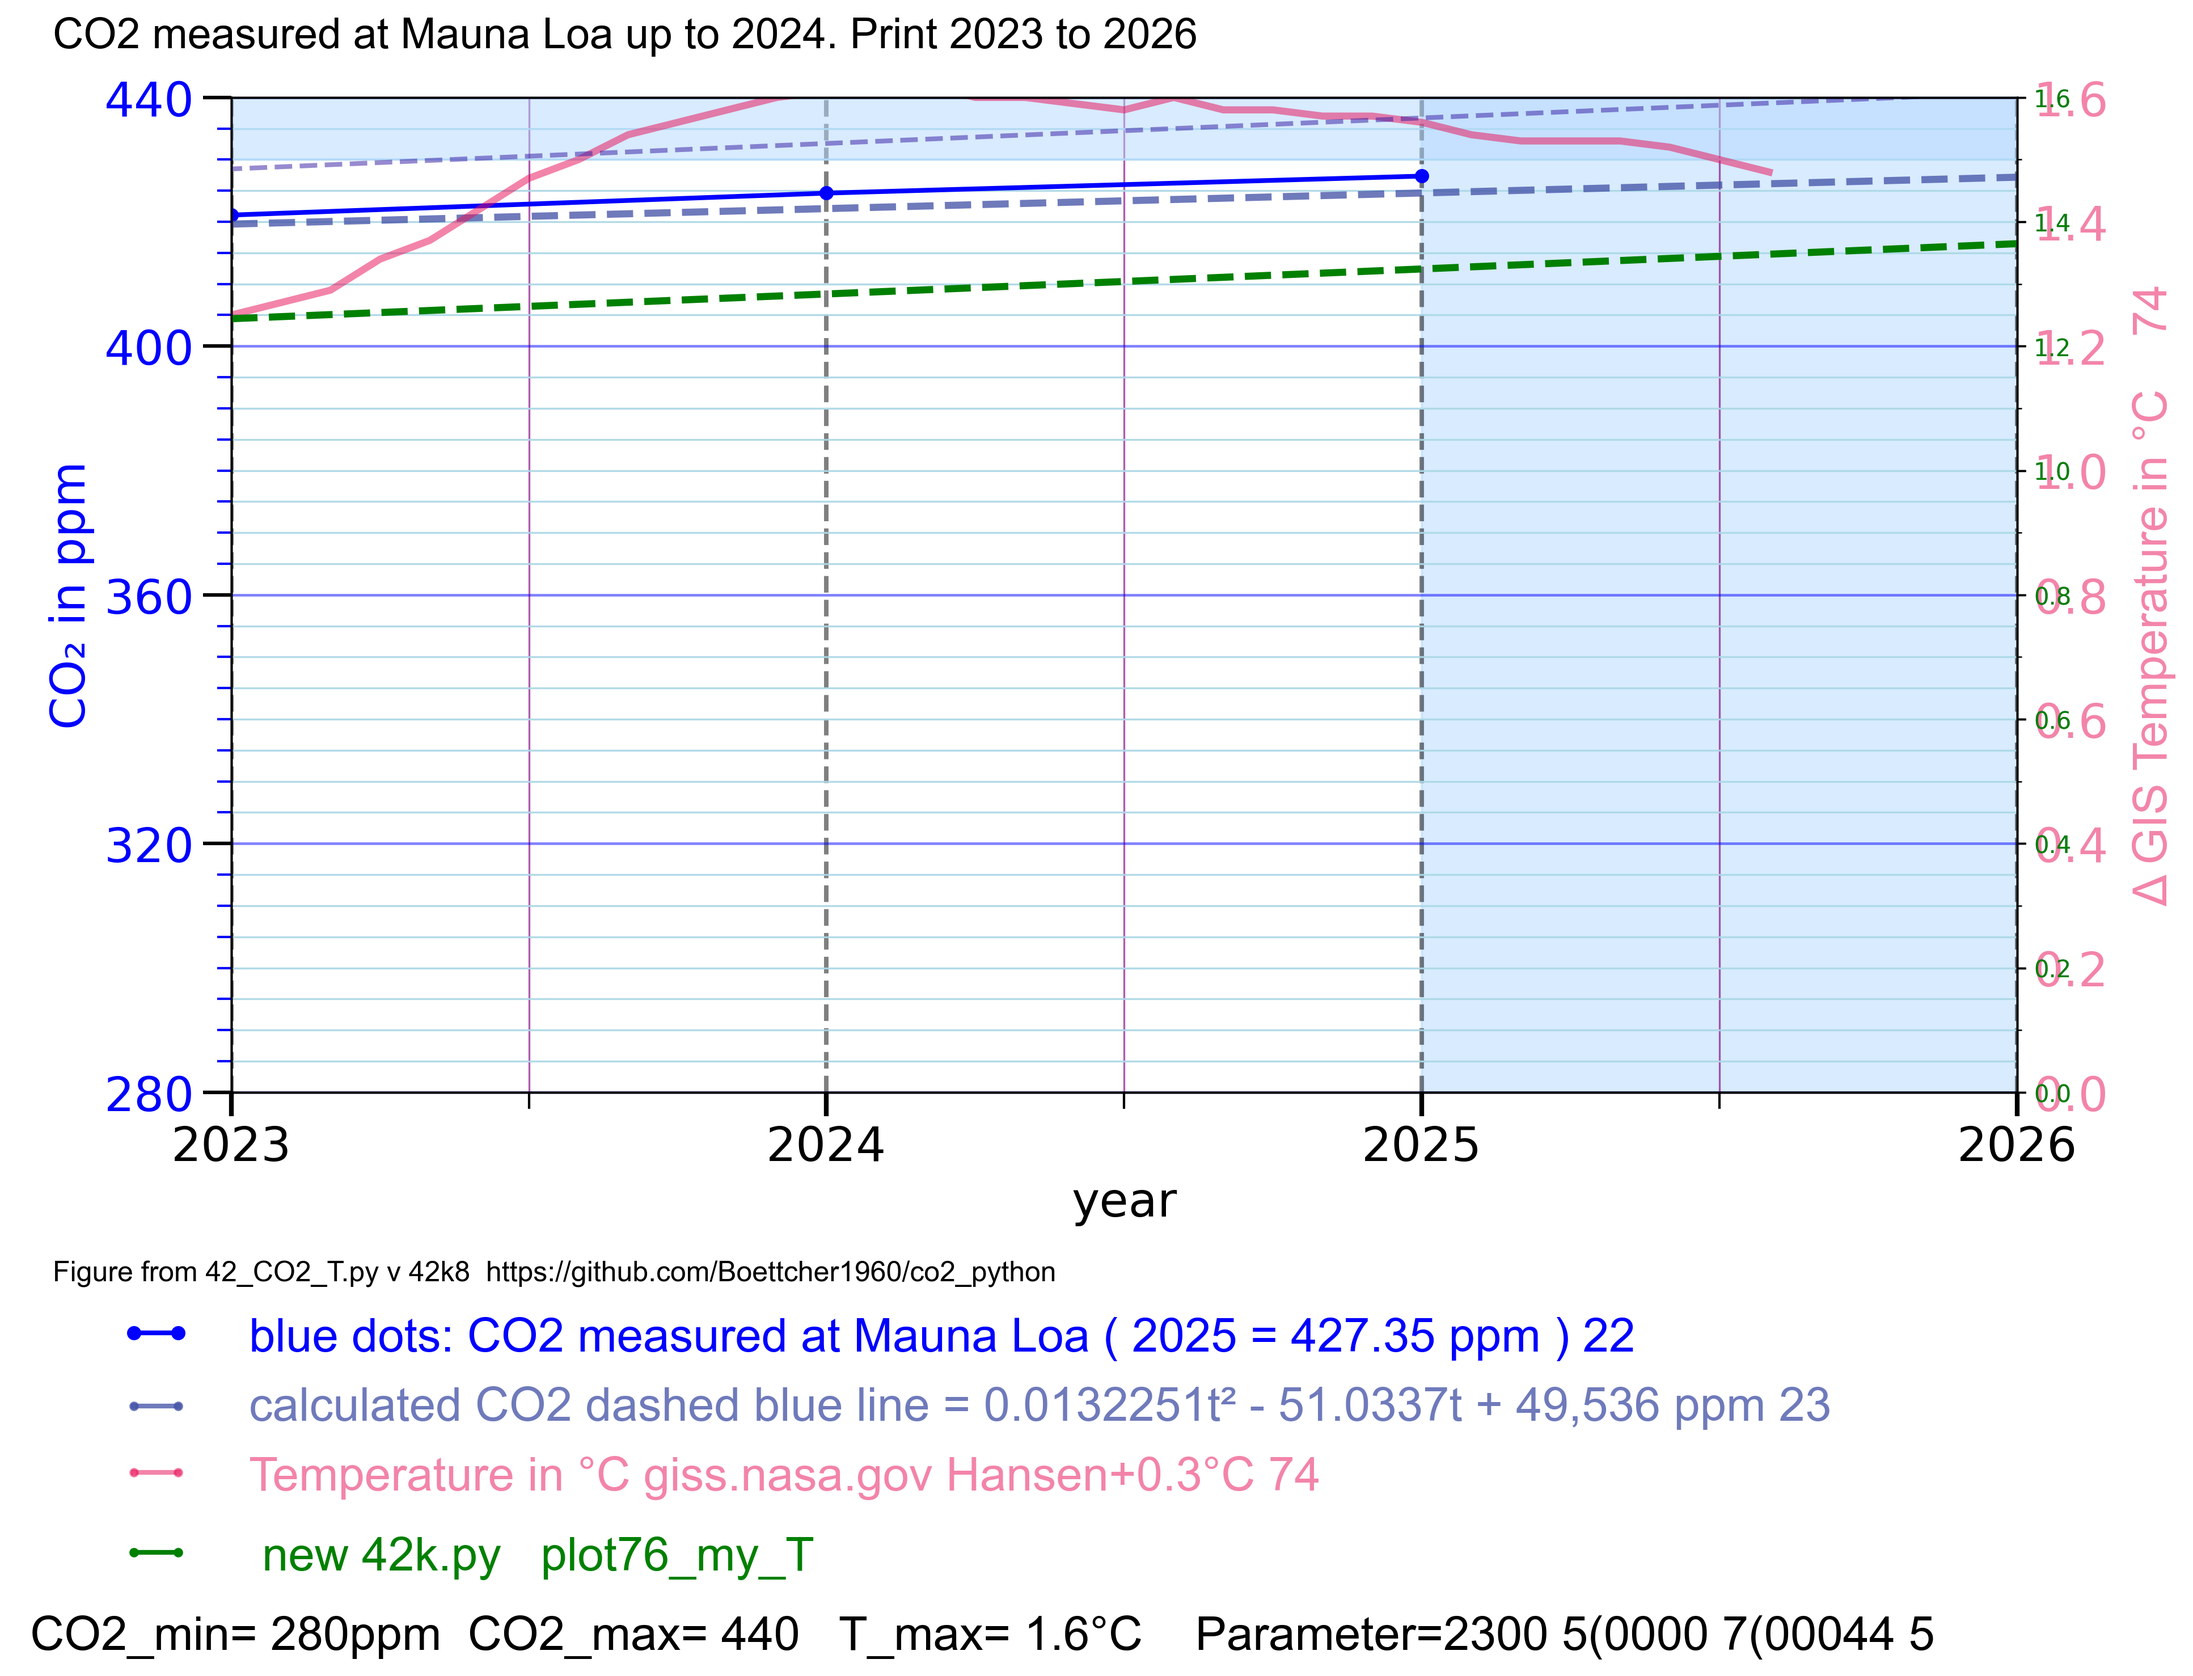
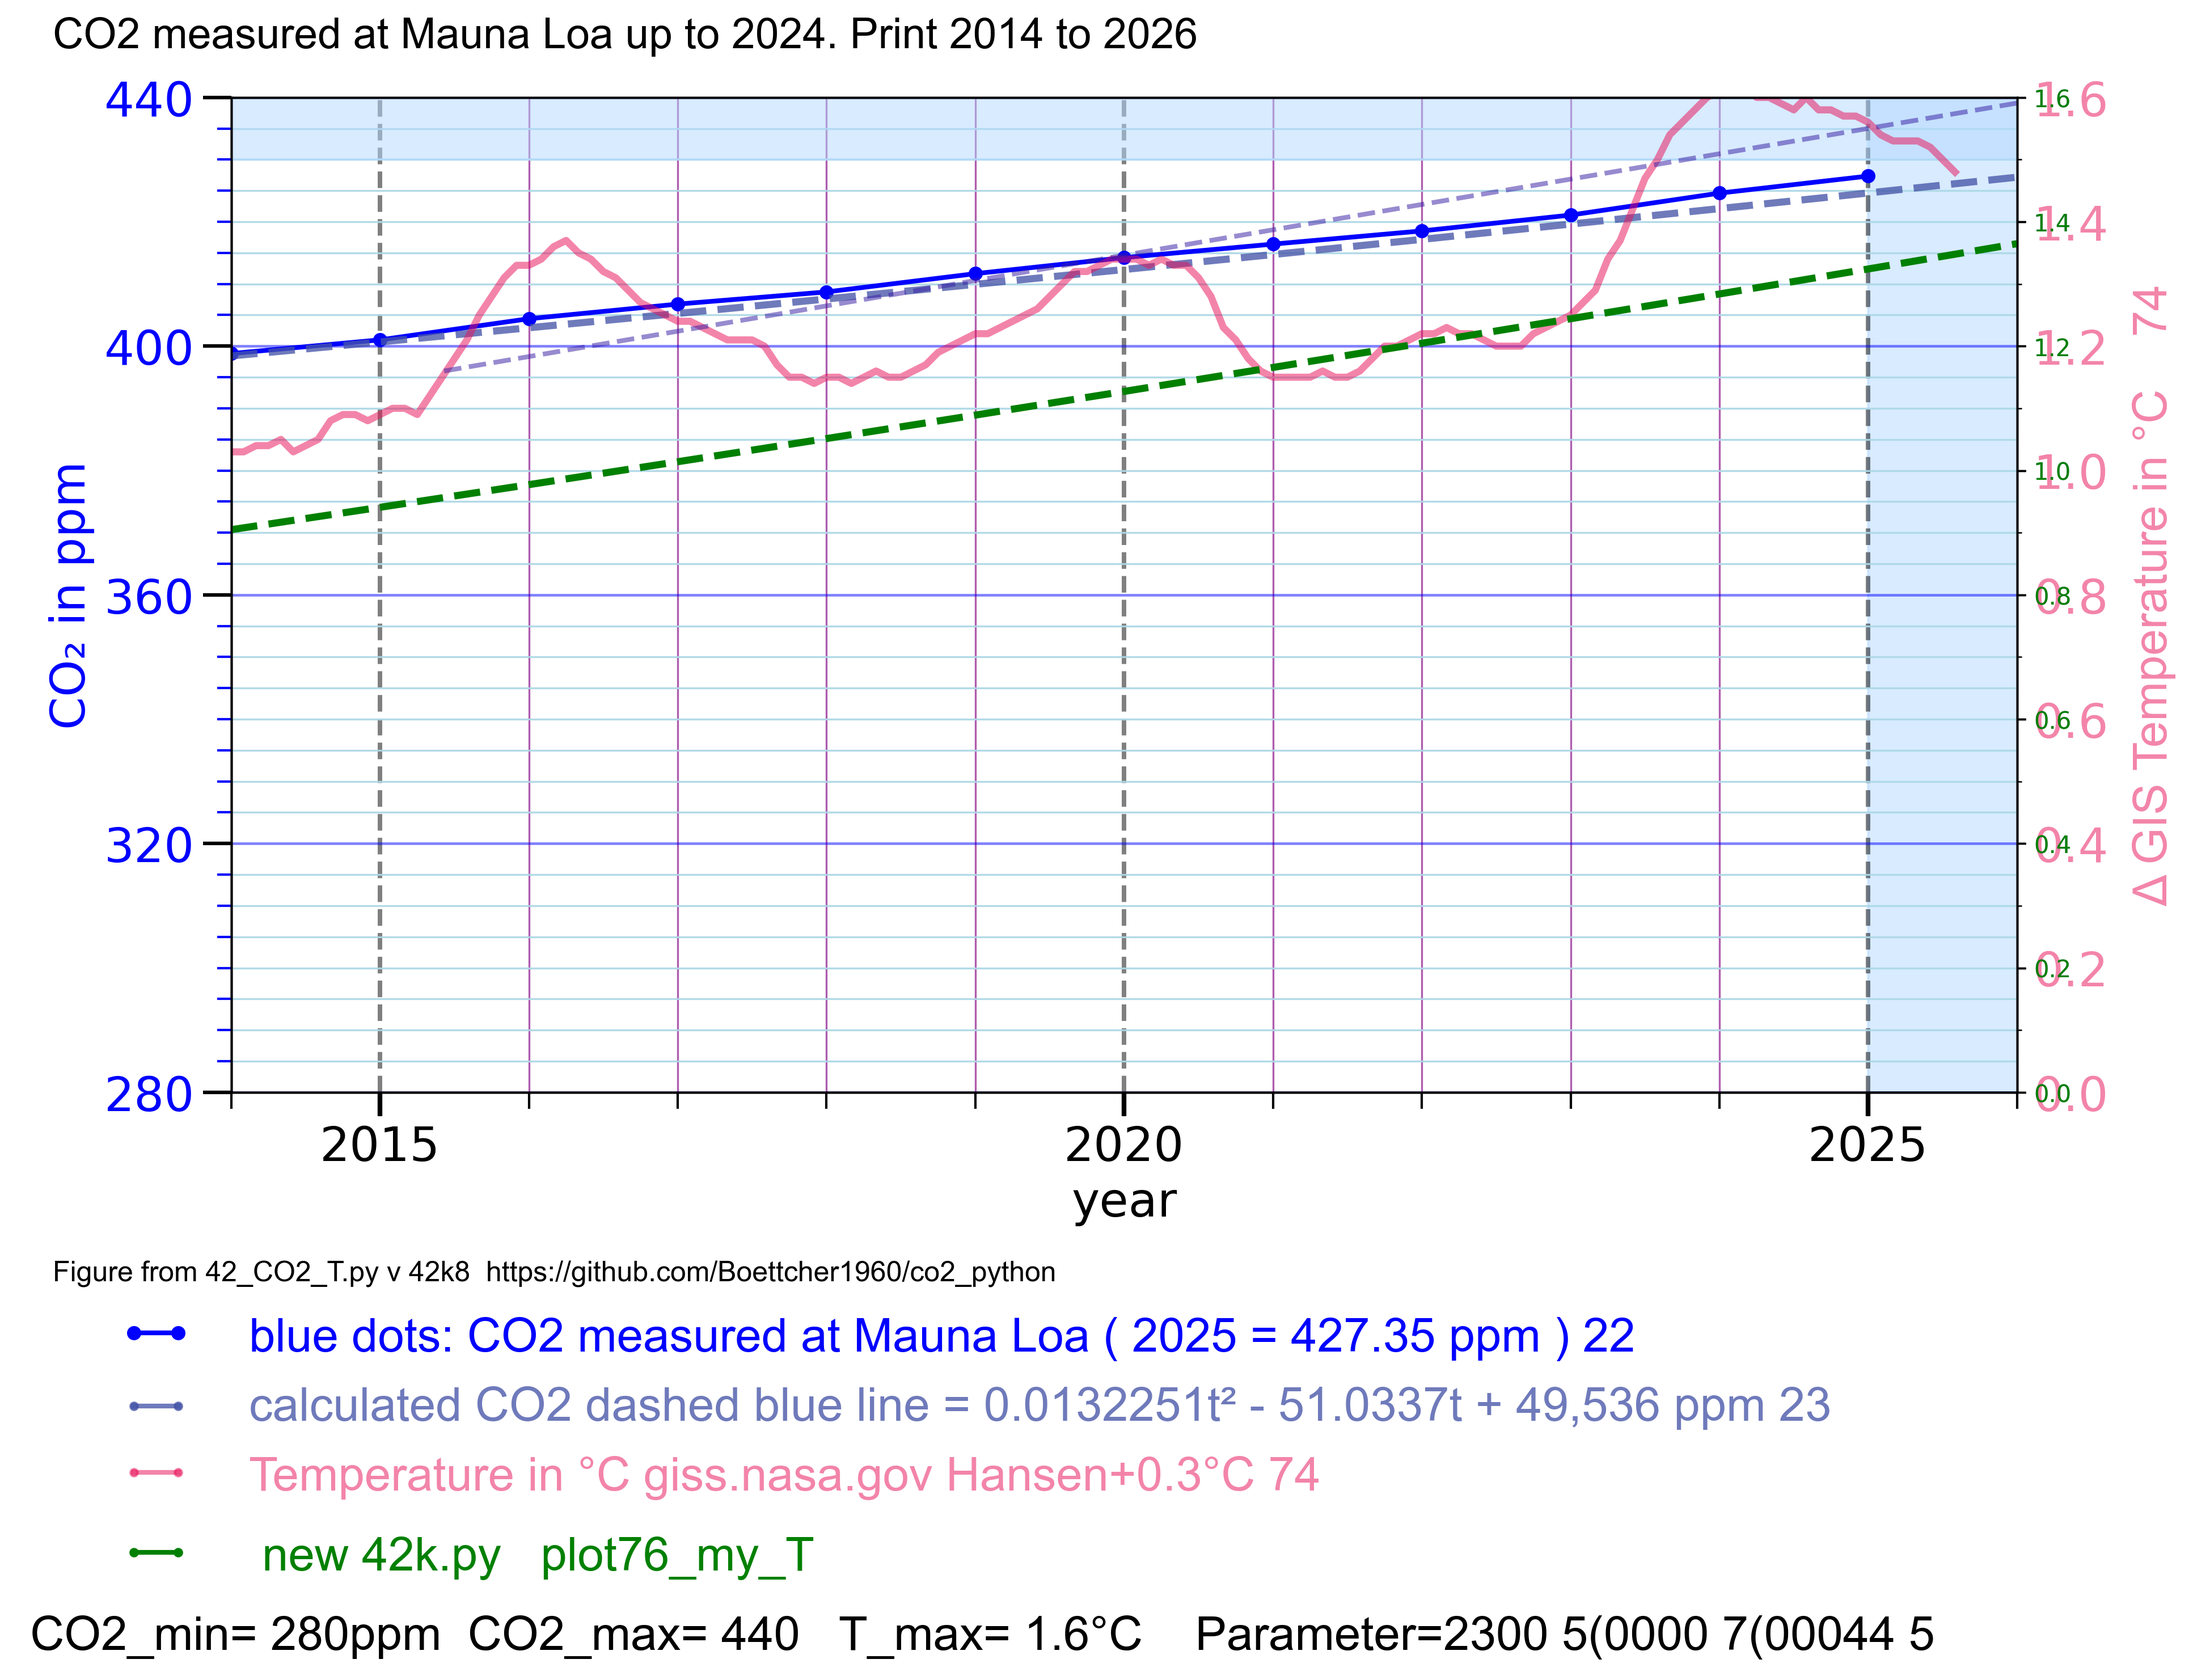
74 start Hansen linear fit at 2015.34

diff --git a/42_CO2_T.py b/42_CO2_T.py
@@ -93,7 +93,7 @@ y_max = 440 # 1300 # min value 440 70
 y_Tmin = 0 # min value °C
 y_Tmax = 1.6 # 1.6 4 # max value C
 
-x_anf = 2023 # 1960 2000 -33000
+x_anf = 2014 # 1960 2000 -33000
 x_end = 2026 # 2200 2026 
 
 # 1.4.5 scale the text rows below the plot field
